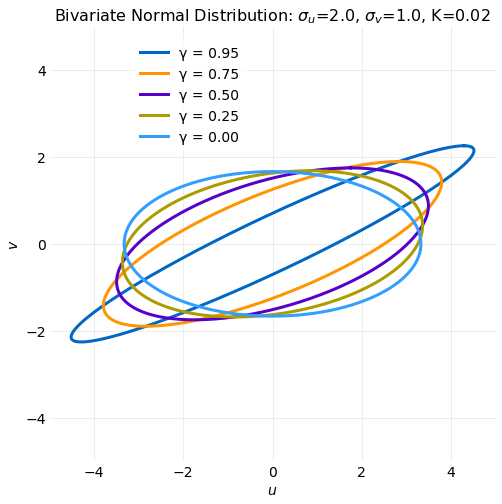
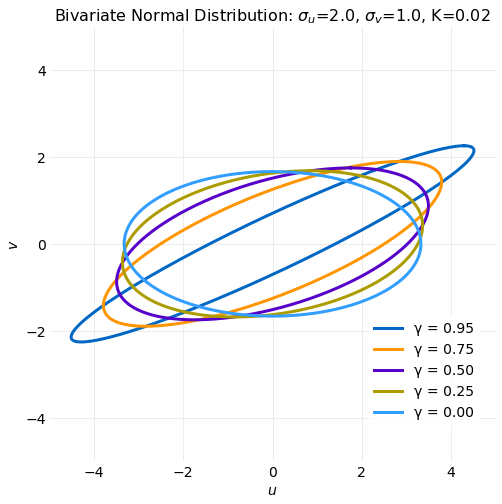
more contour plot work

diff --git a/hydrogen_notebooks/distributions/bivariate_normal_distribution.py b/hydrogen_notebooks/distributions/bivariate_normal_distribution.py
@@ -73,8 +73,8 @@ def pdf_parametric_contour(μ1, μ2, σ1, σ2, γ):
 def r(μ1, μ2, σ1, σ2, γ):
     def f(θ, c):
         t1 = numpy.sin(θ)**2
-        t2 = (2.0*γ/numpy.sqrt(1-γ**2))*numpy.sin(θ)*numpy.cos(θ)
-        t3 = numpy.cos(θ)**2/(1-γ**2)**2
+        t2 = numpy.sin(θ)*numpy.cos(θ)*(2.0*γ/numpy.sqrt(1-γ**2))
+        t3 = numpy.cos(θ)**2/(1-γ**2)
         t4 = γ**2 + σ2**2/σ1**2
         return σ1*c*numpy.sqrt(t1 + t2 + t3*t4)
     return f
@@ -303,7 +303,75 @@ parametric_contour_plot(μ1, μ2, σ1, σ2, γ, (0.32, 0.95),
                         'bivariate_pdf_parameterized_contours_sigma_2.0_correlation_0.5')
 
 # %%
-# Distribution variation with γ
+
+def contour_plot_correlation_scan(μ1, μ2, σ1, σ2, γ, contour_value, legend, plot_name):
+    npts = 500
+    θ = numpy.linspace(0.0, 2.0 * numpy.pi, npts)
+
+    figure, axis = pyplot.subplots(figsize=(8, 8))
+    axis.set_xlabel(r"$u$")
+    axis.set_ylabel(r"$v$")
+    σ = numpy.amax([σ1, σ2])
+    axis.set_xlim([-2.0*σ, 2.0*σ])
+    axis.set_ylim([-2.0*σ, 2.0*σ])
+    title = f"Bivariate Normal Distribution: " + \
+             r"$σ_u$=" + f"{format(σ1, '2.1f')}, " + r"$σ_v$=" + \
+             f"{format(σ2, '2.1f')}, K={format(contour_value, '2.1f')}"
+    axis.set_title(title)
+
+    for i in range(len(γ)):
+        c = pdf_contour_constant(μ1, μ2, σ1, σ2, γ[i], contour_value)
+        f = pdf_parametric_contour(μ1, μ2, σ1, σ2, γ[i])
+        y1, y2 = f(θ, c)
+        axis.plot(y1, y2, label=f"γ = {format(γ[i], '2.2f')}")
+
+    axis.legend(bbox_to_anchor=legend, ncol=2)
+    config.save_post_asset(figure, "bivariate_normal_distribution", plot_name)
+
+# %%
+# Distribution variation with positive γ
+
+σ1 = 1.0
+σ2 = 1.0
+μ1 = 0.0
+μ2 = 0.0
+γ = [0.0, 0.25, 0.5, 0.75, 0.9]
+contour_value = 0.1
+contour_plot_correlation_scan(μ1, μ2, σ1, σ2, γ, contour_value, (0.45, 0.22), "bivariate_pdf_parameterized_contour_positive_correlation_scan")
+
+# %%
+# Distribution variation with positive γ
+
+σ1 = 1.0
+σ2 = 1.0
+μ1 = 0.0
+μ2 = 0.0
+γ = [0.0, -0.25, -0.5, -0.75, -0.9]
+contour_value = 0.1
+
+contour_plot_correlation_scan(μ1, μ2, σ1, σ2, γ, contour_value, (0.6, 0.22), "bivariate_pdf_parameterized_contour_negative_correlation_scan")
+
+# %%
+
+def contour_axis_plot_correlation_scan(μ1, μ2, σ1, σ2, γ, contour_value, legend, plot_name):
+    npts = 500
+    θ = numpy.linspace(0.0, 2.0 * numpy.pi, npts)
+    figure, axis = pyplot.subplots(figsize=(8, 8))
+    title = f"Bivariate Normal Distribution: " + \
+             r"$σ_u$=" + f"{format(σ1, '2.1f')}, " + r"$σ_v$=" + \
+             f"{format(σ2, '2.1f')}, K={format(contour_value, '2.2f')}"
+    axis.set_title(title)
+    axis.set_xlabel(r"$\theta$")
+    axis.set_ylabel(r"$r(\theta)$")
+    for i in range(len(γ)):
+        c = pdf_contour_constant(μ1, μ2, σ1, σ2, γ[i], contour_value)
+        rf = r(μ1, μ2, σ1, σ2, γ[i])
+        axis.plot(θ, rf(θ, c), label=f"γ = {format(γ[i], '2.2f')}")
+
+    axis.legend(bbox_to_anchor=legend, ncol=2)
+    config.save_post_asset(figure, "bivariate_normal_distribution", plot_name)
+
+# %%
 
 σ1 = 1.0
 σ2 = 1.0
@@ -312,27 +380,38 @@ parametric_contour_plot(μ1, μ2, σ1, σ2, γ, (0.32, 0.95),
 γ = [0.0, 0.25, 0.5, 0.75, 0.9]
 contour_value = 0.1
 
-npts = 500
-θ = numpy.linspace(0.0, 2.0 * numpy.pi, npts)
+contour_axis_plot_correlation_scan(μ1, μ2, σ1, σ2, γ, contour_value, (0.45, 0.22), "bivariate_pdf_parameterized_contour_axis_correlation_scan")
 
-figure, axis = pyplot.subplots(figsize=(8, 8))
-axis.set_xlabel(r"$u$")
-axis.set_ylabel(r"$v$")
-axis.set_xlim([-2.0*σ1, 2.0*σ1])
-axis.set_ylim([-2.0*σ2, 2.0*σ2])
-title = f"Bivariate Normal Distribution: " + \
-         r"$σ_u$=" + f"{format(σ1, '2.1f')}, " + r"$σ_v$=" + \
-         f"{format(σ2, '2.1f')}, K={format(contour_value, '2.1f')}"
-axis.set_title(title)
+# %%
 
-for i in range(len(γ)):
-    c = pdf_contour_constant(μ1, μ2, σ1, σ2, γ[i], contour_value)
-    f = pdf_parametric_contour(μ1, μ2, σ1, σ2, γ[i])
-    y1, y2 = f(θ, c)
-    axis.plot(y1, y2, label=f"γ = {format(γ[i], '2.2f')}")
+def contour_axis_plot_sigma_scan(μ1, μ2, σ1, σ2, γ, contour_value, legend, plot_name):
+    npts = 500
+    θ = numpy.linspace(0.0, 2.0 * numpy.pi, npts)
+    figure, axis = pyplot.subplots(figsize=(8, 8))
+    title = f"Bivariate Normal Distribution: " + \
+             r"$σ_u$=" + f"{format(σ1, '2.1f')}, " + r"$\gamma$=" + \
+             f"{format(γ, '2.1f')}, K={format(contour_value, '2.2f')}"
+    axis.set_title(title)
+    axis.set_xlabel(r"$\theta$")
+    axis.set_ylabel(r"$r(\theta)$")
+    for i in range(len(σ2)):
+        c = pdf_contour_constant(μ1, μ2, σ1, σ2[i], γ, contour_value)
+        rf = r(μ1, μ2, σ1, σ2[i], γ)
+        axis.plot(θ, rf(θ, c), label=f"$σ_v$ = {format(σ2[i], '2.2f')}")
 
-axis.legend(bbox_to_anchor=(0.45, 0.22), ncol=2)
-config.save_post_asset(figure, "bivariate_normal_distribution", "bivariate_pdf_parameterized_contour_correlation_scan")
+    axis.legend(bbox_to_anchor=legend)
+    config.save_post_asset(figure, "bivariate_normal_distribution", plot_name)
+
+# %%
+
+σ1 = 1.0
+σ2 = [1.0, 2.0, 3.0, 4.0]
+μ1 = 0.0
+μ2 = 0.0
+γ = 0.0
+contour_value = 0.02
+
+contour_axis_plot_sigma_scan(μ1, μ2, σ1, σ2, γ, contour_value, (0.5, 0.25), "bivariate_pdf_parameterized_contour_axis_sigma2_scan")
 
 # %%
 
@@ -340,38 +419,33 @@ config.save_post_asset(figure, "bivariate_normal_distribution", "bivariate_pdf_p
 σ2 = 1.0
 μ1 = 0.0
 μ2 = 0.0
-γ = 0.9
+γ = [0.0, 0.25, 0.5, 0.75, 0.9]
 contour_value = 0.1
-c = pdf_contour_constant(μ1, μ2, σ1, σ2, γ, contour_value)
-rf = r(μ1, μ2, σ1, σ2, γ)
-rf(0, c)
-f = pdf_parametric_contour(μ1, μ2, σ1, σ2, γ)
-u, v = f(θ, c)
-u[0]
-v[0]
-figure, axis = pyplot.subplots(figsize=(8, 8))
-axis.set_xlabel(r"$\theta$")
-axis.set_ylabel(r"$r(\theta)$")
-axis.plot(θ, rf(θ, c))
 
 # %%
-γ = [0.0, 0.5, 0.75, 0.95]
 
-figure, axis = pyplot.subplots(figsize=(8, 8))
-axis.set_xlabel(r"$\theta$")
-axis.set_ylabel(r"$r(\theta)$")
-title = f"Bivariate Normal Distribution: " + \
-         r"$σ_u$=" + f"{format(σ1, '2.1f')}, " + r"$σ_v$=" + \
-         f"{format(σ2, '2.1f')}, K={format(contour_value, '2.1f')}"
-axis.set_title(title)
+def contour_plot_sigma2_scan(μ1, μ2, σ1, σ2, γ, contour_value, legend, plot_name):
+    npts = 500
+    θ = numpy.linspace(0.0, 2.0 * numpy.pi, npts)
 
-for i in range(len(γ)):
-    c = pdf_contour_constant(μ1, μ2, σ1, σ2, γ[i], contour_value)
-    f = r(μ1, μ2, σ1, σ2, γ[i])
-    axis.plot(θ, f(θ, c), label=f"γ = {format(γ[i], '2.2f')}")
+    figure, axis = pyplot.subplots(figsize=(8, 8))
+    axis.set_xlabel(r"$u$")
+    axis.set_ylabel(r"$v$")
+    axis.set_xlim([-5.0, 5.0])
+    axis.set_ylim([-5.0, 5.0])
+    title = f"Bivariate Normal Distribution: γ={format(γ, '2.1f')}, " + \
+         r"$σ_u$=" + f"{format(σ1, '2.1f')}, " + r"$K$=" + \
+         f"{format(contour_value, '2.2f')}"
+    axis.set_title(title)
 
-axis.legend(bbox_to_anchor=(0.64, 0.55))
-config.save_post_asset(figure, "bivariate_normal_distribution", "bivariate_pdf_parameterized_contour_polar_coordinates_correlation_scan")
+    for i in range(len(σ2)):
+        c = pdf_contour_constant(μ1, μ2, σ1, σ2[i], γ, contour_value)
+        f = pdf_parametric_contour(μ1, μ2, σ1, σ2[i], γ)
+        y1, y2 = f(θ, c)
+        axis.plot(y1, y2, label=r"$σ_v$" + f" = {format(σ2[i], '2.3f')}")
+
+    axis.legend(bbox_to_anchor=legend)
+    config.save_post_asset(figure, "bivariate_normal_distribution", plot_name)
 
 # %%
 # Distribution variation with σ
@@ -383,27 +457,32 @@ config.save_post_asset(figure, "bivariate_normal_distribution", "bivariate_pdf_p
 γ = 0.0
 contour_value = 0.02
 
-npts = 500
-θ = numpy.linspace(0.0, 2.0 * numpy.pi, npts)
+contour_plot_sigma2_scan(μ1, μ2, σ1, σ2, γ, contour_value, (0.7, 0.95), "bivariate_pdf_parameterized_contour_sigma2_scan")
 
-figure, axis = pyplot.subplots(figsize=(8, 8))
-axis.set_xlabel(r"$u$")
-axis.set_ylabel(r"$v$")
-axis.set_xlim([-5.0, 5.0])
-axis.set_ylim([-5.0, 5.0])
-title = f"Bivariate Normal Distribution: γ={format(γ, '2.1f')}, " + \
-         r"$σ_u$=" + f"{format(σ1, '2.1f')}, " + r"$K$=" + \
+# %%
+
+def contour_plot_sigma1_scan(μ1, μ2, σ1, σ2, γ, contour_value, legend, plot_name):
+    npts = 500
+    θ = numpy.linspace(0.0, 2.0 * numpy.pi, npts)
+
+    figure, axis = pyplot.subplots(figsize=(8, 8))
+    axis.set_xlabel(r"$u$")
+    axis.set_ylabel(r"$v$")
+    axis.set_xlim([-5.0, 5.0])
+    axis.set_ylim([-5.0, 5.0])
+    title = f"Bivariate Normal Distribution: γ={format(γ, '2.1f')}, " + \
+         r"$σ_v$=" + f"{format(σ2, '2.1f')}, " + r"$K$=" + \
          f"{format(contour_value, '2.2f')}"
-axis.set_title(title)
+    axis.set_title(title)
 
-for i in range(len(σ2)):
-    c = pdf_contour_constant(μ1, μ2, σ1, σ2[i], γ, contour_value)
-    f = pdf_parametric_contour(μ1, μ2, σ1, σ2[i], γ)
-    y1, y2 = f(θ, c)
-    axis.plot(y1, y2, label=r"$σ_v$" + f" = {format(σ2[i], '2.3f')}")
+    for i in range(len(σ1)):
+        c = pdf_contour_constant(μ1, μ2, σ1[i], σ2, γ, contour_value)
+        f = pdf_parametric_contour(μ1, μ2, σ1[i], σ2, γ)
+        y1, y2 = f(θ, c)
+        axis.plot(y1, y2, label=r"$σ_u$" + f" = {format(σ1[i], '2.3f')}")
 
-axis.legend(bbox_to_anchor=(0.7, 0.95))
-config.save_post_asset(figure, "bivariate_normal_distribution", "bivariate_pdf_parameterized_contour_sigma2_scan")
+    axis.legend(bbox_to_anchor=legend)
+    config.save_post_asset(figure, "bivariate_normal_distribution", plot_name)
 
 # %%
 # Distribution variation with σ
@@ -415,27 +494,33 @@ config.save_post_asset(figure, "bivariate_normal_distribution", "bivariate_pdf_p
 γ = 0.0
 contour_value = 0.02
 
-npts = 500
-θ = numpy.linspace(0.0, 2.0 * numpy.pi, npts)
+contour_plot_sigma1_scan(μ1, μ2, σ1, σ2, γ, contour_value, (0.4, 0.95), "bivariate_pdf_parameterized_contour_sigma1_scan")
 
-figure, axis = pyplot.subplots(figsize=(8, 8))
-axis.set_xlabel(r"$u$")
-axis.set_ylabel(r"$v$")
-axis.set_xlim([-5.0, 5.0])
-axis.set_ylim([-5.0, 5.0])
-title = f"Bivariate Normal Distribution: γ={format(γ, '2.1f')}, " + \
-         r"$σ_v$=" + f"{format(σ2, '2.1f')}, " + r"$K$=" + \
-         f"{format(contour_value, '2.2f')}"
-axis.set_title(title)
+# %%
 
-for i in range(len(σ1)):
-    c = pdf_contour_constant(μ1, μ2, σ1[i], σ2, γ, contour_value)
-    f = pdf_parametric_contour(μ1, μ2, σ1[i], σ2, γ)
-    y1, y2 = f(θ, c)
-    axis.plot(y1, y2, label=r"$σ_u$" + f" = {format(σ1[i], '2.3f')}")
+def contour_plot_sigma_correlation_scan(μ1, μ2, σ1, σ2, γ, contour_value, legend, plot_name):
+    npts = 500
+    θ = numpy.linspace(0.0, 2.0 * numpy.pi, npts)
 
-axis.legend(bbox_to_anchor=(0.4, 0.95))
-config.save_post_asset(figure, "bivariate_normal_distribution", "bivariate_pdf_parameterized_contour_sigma1_scan")
+    figure, axis = pyplot.subplots(figsize=(8, 8))
+    axis.set_xlabel(r"$u$")
+    axis.set_ylabel(r"$v$")
+    σ = numpy.amax([σ1, σ2])
+    axis.set_xlim([-2.5*σ, 2.5*σ])
+    axis.set_ylim([-2.5*σ, 2.5*σ])
+    title = f"Bivariate Normal Distribution: " + \
+             r"$σ_u$=" + f"{format(σ1, '2.1f')}, " + r"$σ_v$=" + \
+             f"{format(σ2, '2.1f')}, K={format(contour_value, '2.2f')}"
+    axis.set_title(title)
+
+    for i in range(len(γ)):
+        c = pdf_contour_constant(μ1, μ2, σ1, σ2, γ[i], contour_value)
+        f = pdf_parametric_contour(μ1, μ2, σ1, σ2, γ[i])
+        y1, y2 = f(θ, c)
+        axis.plot(y1, y2, label=f"γ = {format(γ[i], '2.2f')}")
+
+    axis.legend(bbox_to_anchor=legend)
+    config.save_post_asset(figure, "bivariate_normal_distribution", plot_name)
 
 # %%
 # Distribution variation with γ
@@ -447,27 +532,7 @@ config.save_post_asset(figure, "bivariate_normal_distribution", "bivariate_pdf_p
 γ = [0.95, 0.75, 0.5, 0.25, 0.0]
 contour_value = 0.02
 
-npts = 500
-θ = numpy.linspace(0.0, 2.0 * numpy.pi, npts)
-
-figure, axis = pyplot.subplots(figsize=(8, 8))
-axis.set_xlabel(r"$u$")
-axis.set_ylabel(r"$v$")
-axis.set_xlim([-5.0, 5.0])
-axis.set_ylim([-5.0, 5.0])
-title = f"Bivariate Normal Distribution: " + \
-         r"$σ_u$=" + f"{format(σ1, '2.1f')}, " + r"$σ_v$=" + \
-         f"{format(σ2, '2.1f')}, K={format(contour_value, '2.2f')}"
-axis.set_title(title)
-
-for i in range(len(γ)):
-    c = pdf_contour_constant(μ1, μ2, σ1, σ2, γ[i], contour_value)
-    f = pdf_parametric_contour(μ1, μ2, σ1, σ2, γ[i])
-    y1, y2 = f(θ, c)
-    axis.plot(y1, y2, label=f"γ = {format(γ[i], '2.2f')}")
-
-axis.legend(bbox_to_anchor=(0.75, 0.4))
-config.save_post_asset(figure, "bivariate_normal_distribution", "bivariate_pdf_parameterized_contour_correlation_sigma2_scan")
+contour_plot_sigma_correlation_scan(μ1, μ2, σ1, σ2, γ, contour_value, (0.75, 0.4), "bivariate_pdf_parameterized_contour_correlation_sigma2_scan")
 
 # %%
 # Distribution variation with γ
@@ -479,27 +544,7 @@ config.save_post_asset(figure, "bivariate_normal_distribution", "bivariate_pdf_p
 γ = [0.95, 0.75, 0.5, 0.25, 0.0]
 contour_value = 0.02
 
-npts = 500
-θ = numpy.linspace(0.0, 2.0 * numpy.pi, npts)
-
-figure, axis = pyplot.subplots(figsize=(8, 8))
-axis.set_xlabel(r"$u$")
-axis.set_ylabel(r"$v$")
-axis.set_xlim([-5.0, 5.0])
-axis.set_ylim([-5.0, 5.0])
-title = f"Bivariate Normal Distribution: " + \
-         r"$σ_u$=" + f"{format(σ1, '2.1f')}, " + r"$σ_v$=" + \
-         f"{format(σ2, '2.1f')}, K={format(contour_value, '2.2f')}"
-axis.set_title(title)
-
-for i in range(len(γ)):
-    c = pdf_contour_constant(μ1, μ2, σ1, σ2, γ[i], contour_value)
-    f = pdf_parametric_contour(μ1, μ2, σ1, σ2, γ[i])
-    y1, y2 = f(θ, c)
-    axis.plot(y1, y2, label=f"γ = {format(γ[i], '2.2f')}")
-
-axis.legend(bbox_to_anchor=(0.175, 0.7))
-config.save_post_asset(figure, "bivariate_normal_distribution", "bivariate_pdf_parameterized_contour_correlation_sigma1_scan")
+contour_plot_sigma_correlation_scan(μ1, μ2, σ1, σ2, γ, contour_value, (0.7, 0.35), "bivariate_pdf_parameterized_contour_correlation_sigma1_scan")
 
 # %%
 ## normal distribution examples
